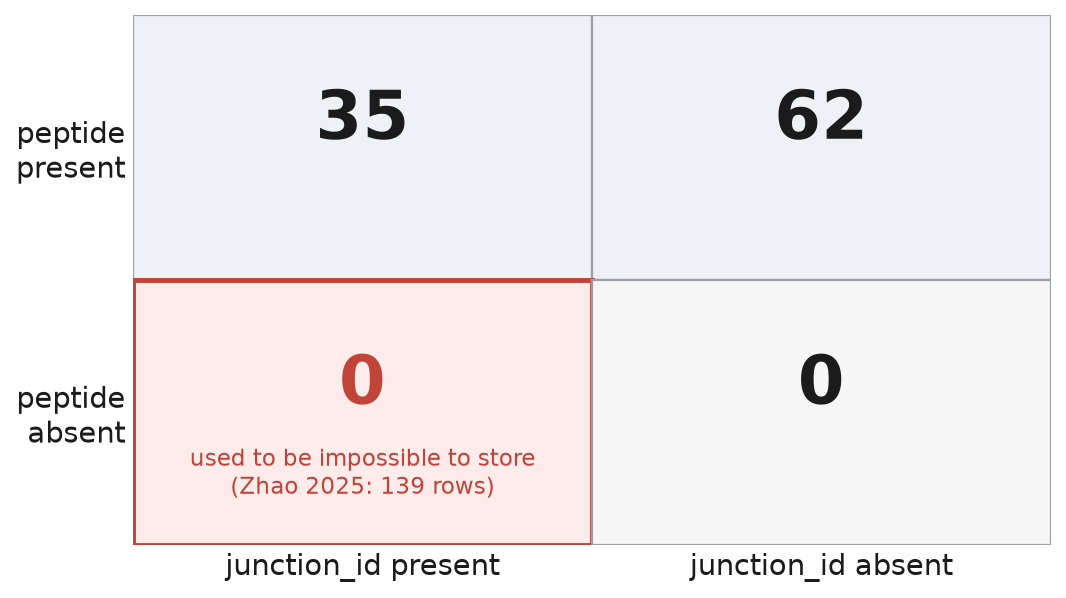
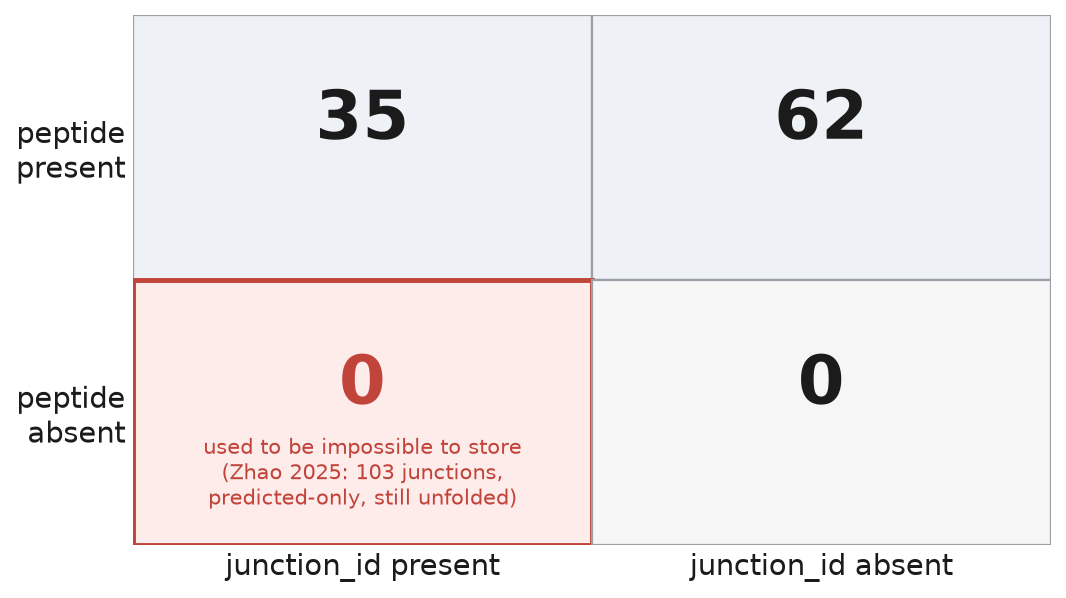
docs(research): Zhao Table S1 is 103 predicted candidates, not 139 ingestable rows (#1089) (#1127)
* docs(research): Zhao Table S1 is 103 predicted candidates, not 139 ingestable rows (#1089)

Audit Zhao et al. 2025 Supplementary Table S1 first-hand and record what it
actually contains, retiring the standing claim that it holds 139 registry rows
waiting on the two-resolution schema.

What the bytes show (Zotero B2MJ776X -> attachment U5RGIZM8, MOESM16):

- The rows are PREDICTED candidates, not measured antigens. The only readouts
  are avg_rank, PHBR_avg and per-allele affinity, so every row is
  label=untested and no tier in LABELING_SCHEME section 4 fits it. Nullable
  identity was necessary to admit a coordinate-first source but is not
  sufficient: the row still needs a legal (label, tier).
- 139 is a peptide count, not a junction count: the rows resolve to 103
  distinct junctions (63 rows share a coordinate), and co-located peptide-null
  rows are indistinguishable under the coalesced identity key.
- No genome build appears in any of the 18 supplement PDFs.
- The validated FISH probes (Supp Table 2) carry no coordinate or gene column,
  so they cannot be joined to Table S1 without inference.

Why it matters: three files asserted the 139-row payoff, which would have
mis-shaped the next pull on the registry arc. The design decision itself
(nullable identity, coalesced key, no inference) still stands and is
independently vindicated by the one-junction-to-many-peptides finding; only
the payoff estimate was wrong.
[…]

Pull request: docs(research): Zhao Table S1 is 103 predicted candidates, not 139 ingestable rows (#1089)
**Created by:** Scientist

Closes #1089

## What and why

[Issue #1089](https://github.com/Jin-HoMLee/splice-neoepitope-pipeline/issues/1089) was pulled to ingest "~139 AS antigens by coordinate" from Zhao et al. 2025 into the registry, as the first coordinate-native fold enabled by the two-resolution schema ([Issue #1086](https://github.com/Jin-HoMLee/splice-neoepitope-pipeline/issues/1086)). The pre-start freshness check read Supplementary Table S1 first-hand and **falsified four of the Issue's premises**, so the Issue was re-scoped to this documentation-only deliverable and the ingest question was routed to [Issue #1125](https://github.com/Jin-HoMLee/splice-neoepitope-pipeline/issues/1125). Findings: [issuecomment-4948696972](https://github.com/Jin-HoMLee/splice-neoepitope-pipeline/issues/1089#issuecomment-4948696972).

**No registry rows are added.** `registry.tsv` stays at 97 rows.

## What Table S1 actually contains

Read from the bytes (Zotero parent `B2MJ776X` -> attachment `U5RGIZM8` = `41422_2025_1199_MOESM16_ESM.pdf`):

| Property | Value |
|---|---|
| Numbered rows | 139 |
| Distinct junctions | **103** (65 rows share a coordinate, across 29 coordinates) |
| Distinct genes | 90 |
| Coordinate format | uniformly `chrN:start-end` (139/139) |
| Genome build | **not stated in any of the 18 supplements** |
| Readouts | `avg_rank`, `PHBR_avg`, per-allele affinity (5 alleles) |
| Peptide sequences | zero |

Four corrections follow:
[…]

Changed region(s): [[0.1857, 0.7224, 0.4953, 0.8428]]

diff --git a/research/experiments/issue_680_splice_immunogenicity_registry/figures/_regenerate_figures.py b/research/experiments/issue_680_splice_immunogenicity_registry/figures/_regenerate_figures.py
@@ -45,7 +45,9 @@ def fig_identity_matrix(df: pd.DataFrame) -> None:
     """The 2x2 that explains the whole schema change: which identity columns a row has.
 
     The bottom-left cell (junction published, sequence withheld) is the shape the old
-    peptide-keyed schema could not represent at all. Zhao 2025 sits there, 139 rows deep.
+    peptide-keyed schema could not represent at all. Zhao 2025's Table S1 is the motivating
+    case (103 junctions), but it is still unfolded: those rows are predicted-only, so they
+    have no legal (label, tier) yet. See PROVENANCE.md and issue 1125.
     """
     has_pep = df.peptide.str.strip() != ""
     has_jun = df.junction_id.str.strip() != ""
@@ -64,8 +66,8 @@ def fig_identity_matrix(df: pd.DataFrame) -> None:
             ax.text(c + .5, 1 - r + .60, str(n), ha="center", va="center",
                     fontsize=30, color=ACCENT if blocked else INK, fontweight="bold")
             if blocked:
-                ax.text(c + .5, 1 - r + .27, "used to be impossible to store\n(Zhao 2025: 139 rows)",
-                        ha="center", va="center", fontsize=10.5, color=ACCENT)
+                ax.text(c + .5, 1 - r + .27, "used to be impossible to store\n(Zhao 2025: 103 junctions,\npredicted-only, still unfolded)",
+                        ha="center", va="center", fontsize=9.5, color=ACCENT)
 
     ax.set_xticks([.5, 1.5]); ax.set_xticklabels(["junction_id present", "junction_id absent"])
     ax.set_yticks([1.5, .5]); ax.set_yticklabels(["peptide\npresent", "peptide\nabsent"])

diff --git a/research/experiments/issue_680_splice_immunogenicity_registry/PROVENANCE.md b/research/experiments/issue_680_splice_immunogenicity_registry/PROVENANCE.md
@@ -125,8 +125,40 @@ Sequence source = S7 "Characteristics of predicted pJETs used for in-vitro assay
 
 **NOT folded — single-replicate patient tetramer⁺ candidates (recorded only here; below the scorable bar):** `ILTASITSI`/ERO1LB (3134-2), `AMDGKELSL`/MAST4 (1146), `CLIDEMPEA`/HDGF (3479), `ILPKANTVV`/DCBLD2 (W13; register-shifted vs 4111), `LLHLESFLV`/SLC39A11 (W2; vs 1375), `MLMKTVWQA`/RLN3 (3443), `GLLNISHTA`/CUL4B (2368), `ILHSLVTGV`/ERO1LB (3134-1), `YLQGLPLPL`/FUT8 (1000), `FLGTRVTRV`/COL28A1 (2914). Re-assess on a bar change. (Fig 4D donor-1–6 reactivity is **healthy-donor** screening, not patient — not used for eligibility.)
 
-## Zhao et al. 2025 — AS-derived mRNA-vaccine neoantigens, HCC (#733 AC#3 — registry-eligible, sequence-blocked)
-Zotero `B2MJ776X` (19 local supplements; **main paper PDF not local**). Gate-1 (alternative splicing) + gate-2 (human per-peptide IFN-γ ELISpot / tetramer / 4-1BB on HCC patient TILs, A\*02:01/A\*11:01/A\*24:02) **both pass** — but the 19 supplements reference peptides only by internal ID (pA02-28, pA11-10, …); the amino-acid strings are not present locally (MOESM19 is an ssGSEA gene list, not the peptide table). **No rows folded** — sequences must be recovered from the main text / a peptide-sequence table before entry. Do NOT translate Table-S1 junction coordinates (inference). Tracked in README "Next steps".
+## Zhao et al. 2025 - AS-derived mRNA-vaccine neoantigens, HCC (#733 AC#3 - sequence-blocked; **zero rows folded**)
+Zotero `B2MJ776X` (19 local supplements; **main paper PDF not local**). Gate-1 (alternative splicing) + gate-2 (human per-peptide IFN-γ ELISpot / tetramer / 4-1BB on HCC patient TILs, A\*02:01/A\*11:01/A\*24:02) **both pass** at the paper level, but the 19 supplements reference the validated peptides only by internal ID (pA02-28, pA11-10, …); the amino-acid strings are not present locally (MOESM19 is an ssGSEA gene list, not the peptide table). **No rows folded** - sequences must be recovered from the main text / a peptide-sequence table before entry. Do NOT translate Table-S1 junction coordinates (inference). Peptide-sequence recovery is tracked in [#817](https://github.com/Jin-HoMLee/splice-neoepitope-pipeline/issues/817).
+
+### What Supplementary Table S1 actually contains (audited first-hand, [#1089](https://github.com/Jin-HoMLee/splice-neoepitope-pipeline/issues/1089))
+
+Table S1 was long cited here and in the design docs as "139 AS antigens by coordinate", i.e. as a coordinate-native source that the two-resolution schema ([#1086](https://github.com/Jin-HoMLee/splice-neoepitope-pipeline/issues/1086)) would let us fold immediately. **It is not.** Read first-hand from the bytes (Zotero parent `B2MJ776X` -> attachment `U5RGIZM8` = `41422_2025_1199_MOESM16_ESM.pdf`, *"Supplementary information, Table S1. Candidate AS antigen information and HLA affinity"*):
+
+| Property | Value |
+|---|---|
+| Numbered rows | **139** |
+| Distinct junction coordinates | **103** (65 rows share a coordinate, across 29 coordinates carrying 2-4 rows each) |
+| Distinct genes | **90** (Ensembl `ENSG` ids) |
+| Coordinate format | uniformly single-junction `chrN:start-end` (139/139; **no** multi-junction event strings) |
+| Genome build | **not stated** in any of the 18 supplement PDFs (the 19th supplement, MOESM19, is an ssGSEA gene-list `.xlsx`, not a PDF). Grepped `hg19` / `hg38` / `GRCh37` / `GRCh38`: zero hits |
+
+The counts reconcile: `139 rows - 103 distinct = 36`, and `65 rows on shared coordinates - 29 such coordinates = 36`.
+
+> **Extraction gotcha, recorded so the next reader does not repeat it.** Table S1 spans two PDF pages, and `pdftotext -layout` prefixes the first row of page 2 (row **106**) with a form-feed (`\f`), so a naive `awk '$1 ~ /^[0-9]+$/'` row filter **silently drops exactly that one row** and every count comes out computed on 138 rows. Pipe through `tr -d '\f'` first. The first version of this audit made that error, and the counts above are the corrected ones (the distinct-junction and distinct-gene totals were unaffected; the shared-coordinate histogram was not).
+| Columns | `No.`, `AS_neoantigen`, `gene`, `avg_rank`, `PHBR_avg`, then per-allele affinity for HLA-A\*02:01, A\*02:07, A\*11:01, A\*24:02, A\*33:03 |
+| Peptide sequences | **zero** |
+
+**Why zero rows were folded, even at junction resolution.** Table S1's only readouts are `avg_rank`, `PHBR_avg`, and per-allele affinity. That is **predicted binding**, not measured T-cell immunogenicity, and not presentation evidence either (the affinity-vs-presentation distinction this project is strict about). Every row is therefore `label=untested`, and **no tier in [`LABELING_SCHEME.md`](LABELING_SCHEME.md) section 4 fits it**, including the two that look closest:
+
+- `presentation-prevalence` requires MHC-**presentation** evidence and/or tumor-prevalence / survival signal. A predicted affinity is none of those.
+- `tier=candidate` holds a row *"initially proposed as `label=positive`"* whose adversarial-verify pass did not confirm it, i.e. a **contested positive**. It presupposes a functional claim that someone made and someone else doubted. Zhao's rows were never asserted positive at all; they are untested predictions, so this tier does not fit either.
+- `functional-nonscorable` requires the row to *have passed* both gates with only the sequence missing. Table S1's rows have not passed gate 2.
+
+These are the *input* to Zhao's selection funnel, upstream of validation.
+
+Note also that the schema's peptide-null junction rows were designed for junction-level **positives** ([`LABELING_SCHEME.md`](LABELING_SCHEME.md) section 7: *"a real junction-level positive, not a missing value"*). Table S1 does not supply those. Admitting it would require a **new predicted-only tier** - distinct from the existing `candidate` tier above, which holds contested *positives*, not untested predictions - and that is a gate-2 relaxation by typing, therefore a governance decision: routed to [#1125](https://github.com/Jin-HoMLee/splice-neoepitope-pipeline/issues/1125).
+
+**If it is ever admitted, it is 103 rows, not 139.** The 65 co-located rows differ only in their affinity vectors, so they are distinct peptides on a shared junction whose sequences are withheld. Under the coalesced identity key `COALESCE(junction_id, peptide)` disambiguated by `hla`, two peptide-null rows on the same junction with the same allele set are indistinguishable, and dedup collapses them. Inserting 139 would require inventing a synthetic disambiguator, which is inference. The lost multiplicity is genuinely unknown information, not a bug.
+
+**The validated antigens are not joinable to Table S1.** Zhao's functionally validated set is the FISH-probe panel in Supplementary Table 2 (`MOESM17`, attachment `NF9227W5`): `pA02-28/35/38/54`, `pA11-10/23/24/27`, and the `pA24-*` set. That table carries probe name, coupled fluorophore, and FISH detection rates **only - no coordinate column and no gene column**. So the validated probes cannot be mapped onto Table S1's coordinates from anything we hold. The superficially tempting `pA02-28 -> Table S1 row 28` mapping is **nowhere stated in the source**, and asserting it would be exactly the fabrication the no-inference rule bars ([`LABELING_SCHEME.md`](LABELING_SCHEME.md) section 6). Recovering that linkage, like recovering the sequences, needs the main text ([#817](https://github.com/Jin-HoMLee/splice-neoepitope-pipeline/issues/817)).
 
 ## Bigot et al. 2021 — SF3B1-mutant uveal melanoma (#734, IEDB free-text recovery)
 Zotero `DJAS2BJ2` (supp tables S1–S9 + methods local; **main-text PDF not local**; Correction `EMSRGMQZ` / PMID 35257149 **has no attachment — unread**). Recovered via the #734 IEDB IQ-API free-text mine (reference 1040678). All **HLA-A\*02:01**.

diff --git a/research/lab_notebook/scientist.md b/research/lab_notebook/scientist.md
@@ -8,6 +8,29 @@ Format and rules unchanged from the unified notebook — see `shared/feedback_la
 
 ## 2026-07-11
 
+### 21:21 UTC - Editor: Scientist
+
+#### [PR #1127](https://github.com/Jin-HoMLee/splice-neoepitope-pipeline/pull/1127) - the freshness check killed the pull. [Issue #1089](https://github.com/Jin-HoMLee/splice-neoepitope-pipeline/issues/1089) becomes a retraction.
+
+**What I set out to do.** Pull [Issue #1089](https://github.com/Jin-HoMLee/splice-neoepitope-pipeline/issues/1089): ingest Zhao 2025's Supplementary Table S1 ("~139 AS antigens by coordinate") as the first coordinate-native fold enabled by the two-resolution schema I shipped yesterday ([Issue #1086](https://github.com/Jin-HoMLee/splice-neoepitope-pipeline/issues/1086)). It was the natural next pull on the registry arc and the first real exercise of the new schema.
+
+**The pre-start freshness check falsified four of its five premises**, so nothing was ingested. What Table S1 actually is:
+
+- **Predicted candidates, not measured antigens.** Its only readouts are `avg_rank`, `PHBR_avg`, and per-allele affinity - predicted *binding*, which is neither immunogenicity nor presentation. Every row is `label=untested` and **no tier fits it**. That is the finding that matters: nullable identity was necessary to admit a coordinate-first source but is **not sufficient**, because the row still needs a legal `(label, tier)`. The schema opened a door the labeling scheme still keeps shut.
+- **"139" is a peptide count, not a junction count** - 103 distinct junctions, 65 rows sharing a coordinate. Those are distinct peptides on one junction with the sequences withheld, indistinguishable under the coalesced key.
+- No genome build appears in any supplement; the canonical `junction_id` scheme AC2 leaned on was never shipped (it is [Issue #1100](https://github.com/Jin-HoMLee/splice-neoepitope-pipeline/issues/1100)).
+- **The prize is not reachable.** Zhao's *validated* antigens are the FISH probes in Supp Table 2, which carries no coordinate and no gene column. So the validated set cannot be joined to Table S1 from anything we hold. The tempting `pA02-28 -> row 28` mapping is nowhere in the source; taking it would have been fabrication dressed as a join.
+
+**What I make of it.** The finding **vindicates the #1086 design while retracting its payoff estimate**. The one-junction-to-many-peptides asymmetry that collapses 139 to 103 is *exactly* the argument `design_junction_resolution_axis.md` makes for a coalesced key - the doc simply never noticed the argument applied to its own headline number. That is the shape I want to remember: a design can be right and its business case wrong, and the business case is the part nobody re-checks after the design is approved.
+
+**The miss, and it is a real one.** My first push had counts that did not reconcile (`139 - 103 = 36` but `63 - 28 = 35`), and the bot review caught it. Root cause was not a typo: Table S1 spans two PDF pages, `pdftotext -layout` prefixes the first row of page 2 with a form feed, and my `awk '$1 ~ /^[0-9]+$/'` filter **silently dropped exactly that one row**. Every count was computed on 138 rows. I had *seen* the discrepancy during extraction ("138 parsed, last row no: 139") and moved on without chasing it - the same trusting-my-own-output failure I wrote up in yesterday's episode, one day later, in the very PR whose entire value proposition is rigor. Two further notes: the bot's *proposed* fix (`28 -> 27`) was also wrong, so accepting a plausible reviewer patch would have papered over the parse bug; and my headline numbers survived only because the dropped row happened to be a duplicate coordinate rather than a unique one. That is luck, not method. The gotcha is now recorded in `PROVENANCE.md`, and arithmetic reconciliation is an explicit test-plan line rather than something a reviewer must derive.
+
+**Also fixed on review:** the #1105 deck still said Zhao "clears both of our bars, yet lists its 139 antigens" - attaching the validated set's gate-2 pass to the predicted set, the exact conflation this branch retracts. Deferring it was offered and declined: it is the one artifact a human actually reads, so shipping a correction whose own deck contradicts it was not an option. Slide reframed, figure regenerated, slide visually checked.
+
+**Outcome routing.** No registry rows added (still 97, validator + 34 tests green). The ingest question is **not dropped** - it is routed to [Issue #1125](https://github.com/Jin-HoMLee/splice-neoepitope-pipeline/issues/1125): does the registry admit a **predicted-only tier**? That is a gate-2 relaxation by typing, the shape Jin-Ho sanctioned on [Issue #680](https://github.com/Jin-HoMLee/splice-neoepitope-pipeline/issues/680#issuecomment-4947065345). Declining is a legitimate answer: admitting it would put 103 predictions into a 97-row registry of measurements, make predictions the majority of the file, and advance the scorable set by zero.
+
+---
+
 ### 15:56 UTC - Editor: Scientist
 
 #### [PR #1109](https://github.com/Jin-HoMLee/splice-neoepitope-pipeline/pull/1109) - ship day. Closes [Issue #1105](https://github.com/Jin-HoMLee/splice-neoepitope-pipeline/issues/1105). The deck's judgment slide did its job.

diff --git a/research/experiments/issue_680_splice_immunogenicity_registry/design_junction_resolution_axis.md b/research/experiments/issue_680_splice_immunogenicity_registry/design_junction_resolution_axis.md
@@ -10,9 +10,16 @@ The registry is peptide-keyed: every row needs an amino-acid sequence to exist.
 That makes a whole class of otherwise-eligible sources unusable.
 
 The triggering case is Zhao et al. 2025 (*Cell Research*, DOI `10.1038/s41422-[phone redacted]`, [#817](https://github.com/Jin-HoMLee/splice-neoepitope-pipeline/issues/817)).
-Its Supplementary Table S1 lists **139 candidate AS antigens by genomic coordinate + gene + per-allele HLA affinity**, with **zero peptide sequences** anywhere in the supplement.
+Its Supplementary Table S1 lists **candidate AS antigens by genomic coordinate + gene + per-allele HLA affinity**, with **zero peptide sequences** anywhere in the supplement.
 The sequences are only in the paywalled main text or unpublished; recovery is gated behind an author request.
-Peptide-keyed, Zhao contributes 0 rows today. Junction-keyed, it contributes 139 candidate rows immediately.
+Peptide-keyed, Zhao contributes 0 rows today.
+
+> **⚠️ Correction 2026-07-11 ([#1089](https://github.com/Jin-HoMLee/splice-neoepitope-pipeline/issues/1089)).** This document originally claimed Zhao "contributes 139 candidate rows immediately" once the registry is junction-keyed. The first-hand audit of Table S1 refuted that on two counts, and **it contributes 0 rows today even junction-keyed**:
+>
+> 1. **The rows are predicted, not measured.** Table S1's readouts are `avg_rank` / `PHBR_avg` / per-allele affinity, i.e. predicted binding. Every row is `label=untested` and **no tier fits it** ([`LABELING_SCHEME.md`](LABELING_SCHEME.md) section 4 - note the existing `candidate` tier is a *contested positive*, not an untested prediction). Nullable identity was necessary to admit a coordinate-first source, but not sufficient: the row still needs a legal `(label, tier)`. Whether a new predicted-only tier is created is [#1125](https://github.com/Jin-HoMLee/splice-neoepitope-pipeline/issues/1125).
+> 2. **139 is a peptide count, not a junction count.** The 139 rows resolve to **103 distinct junctions** (65 rows share a coordinate). Under the coalesced key those co-located peptide-null rows are indistinguishable, so the ceiling is 103.
+>
+> The design decision below (nullable identity, coalesced key, no inference) **still stands** and was independently vindicated: point 2 is exactly the one-junction-to-many-peptides asymmetry the argument predicts. Only the *payoff estimate* was wrong. Full audit: [`PROVENANCE.md`](PROVENANCE.md).
 
 ## The asymmetry (and why the naive framing is a red herring)
 
@@ -79,7 +86,7 @@ Switching the *scorer* benchmark target from peptide to coordinate would quietly
 
 ## Payoffs
 
-- **Unblocks Zhao today** at junction resolution (139 candidate rows), independent of the sequence recovery.
+- ~~**Unblocks Zhao today** at junction resolution (139 candidate rows), independent of the sequence recovery.~~ **Retracted 2026-07-11** (see the correction above): Zhao's Table S1 rows are predicted candidates with no legal tier, and they resolve to 103 junctions, not 139. This benefit did not materialize. The remaining benefits below are unaffected.
 - **Attacks the scarcest reagent, measured true-negatives ([#911](https://github.com/Jin-HoMLee/splice-neoepitope-pipeline/issues/911)).**
   Junctions present in normal tissue (GTEx and friends) are coordinate-native and abundant; peptide-keyed, true-negatives are near-unsourceable.
 - **Aligns with how the field's tools evaluate.**

diff --git a/research/experiments/issue_680_splice_immunogenicity_registry/LABELING_SCHEME.md b/research/experiments/issue_680_splice_immunogenicity_registry/LABELING_SCHEME.md
@@ -156,7 +156,9 @@ The no-inference rule above is untouched and still bars deriving a junction from
 
 The registry was peptide-keyed: every row needed an amino-acid sequence to exist.
 That locked out an entire class of otherwise-eligible sources, because the junction - not the peptide - is the *natively published* unit of a splice-neoantigen study.
-The triggering case is Zhao et al. 2025 ([#817](https://github.com/Jin-HoMLee/splice-neoepitope-pipeline/issues/817)), whose Supp Table S1 publishes 139 candidate AS antigens by genomic coordinate with **zero** peptide sequences anywhere in the supplement.
+The triggering case is Zhao et al. 2025 ([#817](https://github.com/Jin-HoMLee/splice-neoepitope-pipeline/issues/817)), whose Supp Table S1 publishes candidate AS antigens by genomic coordinate with **zero** peptide sequences anywhere in the supplement.
+
+> **⚠️ Zhao Table S1 motivated this schema but is not admitted by it.** The first-hand audit ([#1089](https://github.com/Jin-HoMLee/splice-neoepitope-pipeline/issues/1089)) found its 139 rows carry only *predicted* binding (`avg_rank` / `PHBR_avg` / per-allele affinity), so every row is `label=untested` and **no tier in section 4 fits it**; and the 139 rows resolve to only **103 distinct junctions** (65 rows share a coordinate). Nullable identity is necessary for a coordinate-first source but not sufficient to admit one - the row still needs a legal `(label, tier)`, and none of the section-4 tiers fits an untested prediction (note `tier=candidate` is a *contested positive*, not this). Whether the registry takes a new predicted-only tier is [#1125](https://github.com/Jin-HoMLee/splice-neoepitope-pipeline/issues/1125). Full audit: [`PROVENANCE.md`](PROVENANCE.md).
 
 **Both `junction_id` and `peptide` are nullable, under an at-least-one-non-null invariant.**
 Row identity is the coalesced key `COALESCE(junction_id, peptide)`, disambiguated by `hla` where present.

diff --git a/research/experiments/issue_680_splice_immunogenicity_registry/README.md b/research/experiments/issue_680_splice_immunogenicity_registry/README.md
@@ -84,7 +84,8 @@ Per-source grade rationale: [`junction_evidence_by_source.md`](junction_evidence
 
 The registry used to be **peptide-keyed**: every row needed an amino-acid sequence to exist, which locked out every coordinate-first source. `junction_id` and `peptide` are now **both nullable** under an at-least-one-non-null invariant, and row identity is the coalesced key `COALESCE(junction_id, peptide)` disambiguated by `hla`. Full rules + the harmonization with `tier` / `junction_mapping_grade`: [`LABELING_SCHEME.md`](LABELING_SCHEME.md) section 7.
 
-- **All 97 current rows are `published-recovered`** - every row in the registry today carries its sequence. The schema change is what makes the *next* fold possible: Zhao 2025 ([#817](https://github.com/Jin-HoMLee/splice-neoepitope-pipeline/issues/817)) publishes 139 candidate AS antigens by genomic coordinate with **zero** sequences, and coordinate-native measured true-negatives ([#911](https://github.com/Jin-HoMLee/splice-neoepitope-pipeline/issues/911)) are the scarcest reagent in the set.
+- **All 97 current rows are `published-recovered`** - every row in the registry today carries its sequence. The schema change is what makes a *future* coordinate-first fold possible, most importantly coordinate-native measured true-negatives ([#911](https://github.com/Jin-HoMLee/splice-neoepitope-pipeline/issues/911)), the scarcest reagent in the set.
+- ⚠️ **Zhao 2025's Table S1 is NOT the first fold, contrary to what this README and the design doc used to say.** The first-hand audit ([#1089](https://github.com/Jin-HoMLee/splice-neoepitope-pipeline/issues/1089)) found its 139 rows carry only *predicted* binding, so every row is `label=untested` with **no legal tier**, and they resolve to **103 distinct junctions**, not 139 (65 rows share a coordinate). Nullable identity was necessary to admit a coordinate-first source but is not sufficient - the row still needs a legal `(label, tier)`. Whether a new predicted-only tier is created: [#1125](https://github.com/Jin-HoMLee/splice-neoepitope-pipeline/issues/1125). The *validated* Zhao antigens remain sequence-blocked and are additionally not joinable to Table S1's coordinates ([#817](https://github.com/Jin-HoMLee/splice-neoepitope-pipeline/issues/817)). Full audit: [`PROVENANCE.md`](PROVENANCE.md).
 - The grade→`junction_id` rule was **replaced, not relaxed**: a `coords`/`event-id` grade still requires a `junction_id`, but a `gene-mechanism`/`none` row may now carry one recovered later from an authoritative source. The old rule barred 64% of rows (the 62 `gene-mechanism`/`none` rows) from ever gaining a junction. The no-inference rule is untouched.
 - Dedup keys on the **full `(junction_id, peptide, hla)` triple**, not on the coalesced identity: one junction legitimately yields several distinct peptides. Exactly one such case exists today - the Kim 2025 constitutive-intron event `ci@16:719606:720123:+|16:719606:719607:+` carries `FLWPGLGPS`, `FLWPGLGPSV`, and `ILGSLTWSC`. `registry_dedup.junction_view()` gives junction-level consumers that grouping.
 - ⚠️ **`junction_id` is stored source-verbatim and no genome build is recorded**, so cross-source junction comparison is **not yet possible**. The 17 `coords` rows span four incompatible formats, two of which encode multi-junction *events*. Canonical scheme + build audit: [#1100](https://github.com/Jin-HoMLee/splice-neoepitope-pipeline/issues/1100).